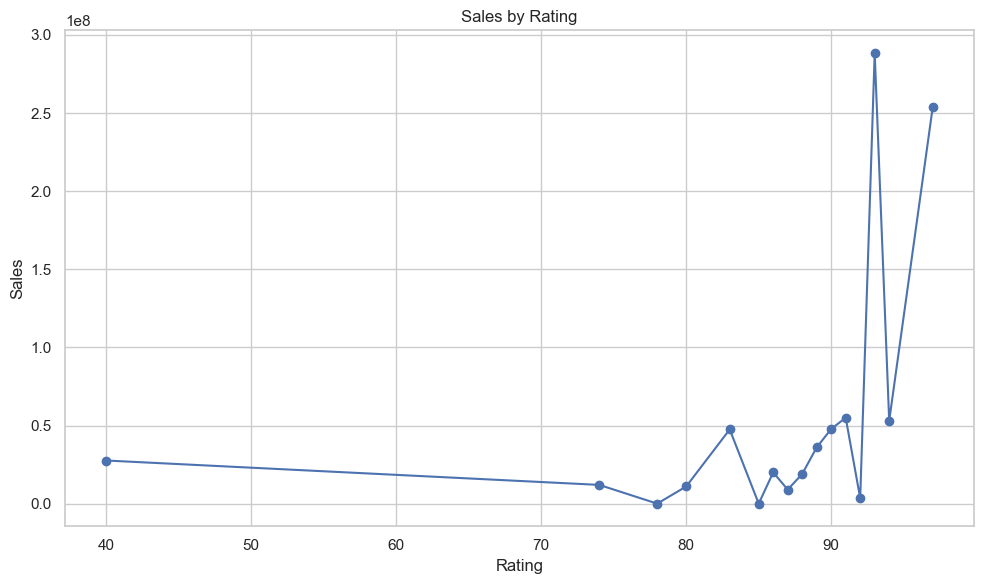
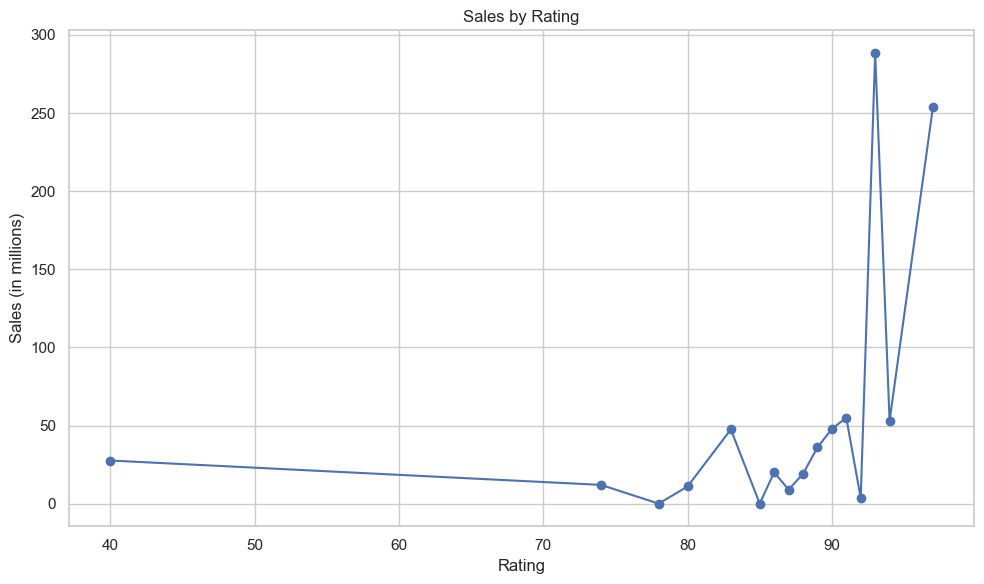
Change graphics + return button

diff --git a/static/index.html b/static/index.html
@@ -1,24 +1,30 @@
 <!DOCTYPE html>
 <html lang="en">
+
 <head>
     <meta charset="UTF-8">
     <meta name="viewport" content="width=device-width, initial-scale=1.0">
     <title>Game Sales Data</title>
     <link rel="stylesheet" href="style.css">
 </head>
+
 <body>
-<h1>Game Sales Data Visualizations</h1>
+    <div class='back'>
+        <a class='button' href='/'>Retour</a>
+    </div>
+    <h1>Game Sales Data Visualizations</h1>
 
-<h2>Sales by Platform</h2>
-<img src="/static/sales_by_platform.png" alt="Sales by Platform">
+    <h2>Sales by Platform</h2>
+    <img src="/static/sales_by_platform.png" alt="Sales by Platform">
 
-<h2>Sales by Rating</h2>
-<img src="/static/sales_by_rating.png" alt="Sales by Rating">
+    <h2>Sales by Rating</h2>
+    <img src="/static/sales_by_rating.png" alt="Sales by Rating">
 
-<h2>Sales by Genre</h2>
-<img src="/static/avg_rating_by_genre.png" alt="Sales by Publisher">
+    <h2>Sales by Genre</h2>
+    <img src="/static/avg_rating_by_genre.png" alt="Sales by Publisher">
 
-<h2>Sales over Time</h2>
-<img src="./sales_over_time.png" alt="Sales by Year">
+    <h2>Sales over Time</h2>
+    <img src="./sales_over_time.png" alt="Sales by Year">
 </body>
+
 </html>

diff --git a/static/style.css b/static/style.css
@@ -1,21 +1,45 @@
-*{
+* {
     margin: 0;
     padding: 0;
     box-sizing: border-box;
 }
-body{
+
+body {
     font-family: 'Poppins', sans-serif;
     background: black;
     color: white;
-    padding:1rem;
+    padding: 1rem;
     display: flex;
     gap: 2rem;
     flex-direction: column;
     justify-content: center;
     align-items: center;
-    img{
+
+    img {
         width: 50%;
         height: auto;
         object-fit: cover;
     }
+}
+
+.button {
+    display: inline-block;
+    padding: 10px 20px;
+    font-size: 16px;
+    color: white;
+    text-align: center;
+    text-decoration: none;
+    border-radius: 5px;
+    transition: background-color 0.3s ease;
+}
+
+.button:hover {
+    background-color: green;
+}
+
+.back {
+    border: solid 2px white;
+    width: fit-content;
+    padding: 5px 10px;
+    border-radius: 7px;
 }

diff --git a/graphs.py b/graphs.py
@@ -6,6 +6,9 @@ import os
 # Load the CSV data
 df = pd.read_csv('videogames.csv')
 
+# Convert Sales to millions
+df['Sales'] = df['Sales'] / 1_000_000
+
 # Create a directory to save the images if it doesn't exist
 output_dir = 'static'
 os.makedirs(output_dir, exist_ok=True)
@@ -39,8 +42,8 @@ def generate_graphs():
         plt.figure(figsize=(10, 6))
         sales_by_platform.plot(kind='barh', color=sns.color_palette("viridis", len(sales_by_platform)))
         plt.title('Sales by Platform')
-        plt.xlabel('Sales (by millions)')
-        plt.ylabel('Platform')
+        plt.xlabel('Sales (in millions)')
+        plt.ylabel('Platforms')
         plt.tight_layout()
         plt.savefig(os.path.join(output_dir, 'sales_by_platform.png'), bbox_inches='tight')
         plt.close()
@@ -51,7 +54,7 @@ def generate_graphs():
         sales_by_rating.plot(kind='line', marker='o', color='b')
         plt.title('Sales by Rating')
         plt.xlabel('Rating')
-        plt.ylabel('Sales')
+        plt.ylabel('Sales (in millions)')
         plt.grid(True)
         plt.tight_layout()
         plt.savefig(os.path.join(output_dir, 'sales_by_rating.png'), bbox_inches='tight')
@@ -60,16 +63,19 @@ def generate_graphs():
         # Additional Example: Sales over Time (Line Chart)
         df['Release Date'] = pd.to_datetime(df['Release Date'], errors='coerce')
         sales_over_time = df.groupby(df['Release Date'].dt.year)['Sales'].sum()
+        sales_over_time = sales_over_time.rolling(window=5, min_periods=1).mean()  # Apply moving average
+
         plt.figure(figsize=(10, 6))
-        sales_over_time.plot(kind='line', marker='o', color='g')
+        sales_over_time.plot(kind='line', marker='o', color='g', label='Sales (smoothed)')
         plt.title('Sales Over Time')
         plt.xlabel('Year')
-        plt.ylabel('Sales')
+        plt.ylabel('All Game Sales (in millions)')
+        plt.legend(['Some zero values are not representative due to game not being present'], loc='upper left')
         plt.grid(True)
         plt.tight_layout()
         plt.savefig(os.path.join(output_dir, 'sales_over_time.png'), bbox_inches='tight')
         plt.close()
-
+        
         # Additional Example: Average Rating by Genre (Bar Chart)
         avg_rating_by_genre = df.groupby('Genre')['Rating'].mean().sort_values()
         plt.figure(figsize=(10, 6))
